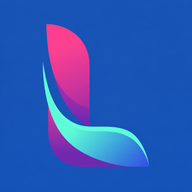
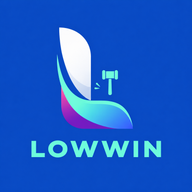
a

Changed region(s): [[0.1562, 0.125, 0.8438, 0.875]]

diff --git a/src/components/mini-route-skeleton.module.css b/src/components/mini-route-skeleton.module.css
@@ -29,15 +29,15 @@
 .homeControls>.bone:first-child{width:80px;height:44px;border-radius:24px}
 .homeAuctionGrid{display:grid;grid-template-columns:minmax(0,1fr);gap:16px}
 .homeAuctionGrid>.auctionCard:nth-child(n+2){display:none}
-.heroBlock{position:relative;min-width:0;overflow:hidden;border-radius:0;background:#172235}
-.hero{display:grid;align-content:center;gap:11px;width:100%;min-width:0;aspect-ratio:16/9;border-radius:0;padding:20px;background:#172235}
-.hero .bone{background:#344258}
+.heroBlock{position:relative;min-width:0;overflow:hidden;border-radius:0;background:#123e89}
+.hero{display:grid;align-content:center;gap:11px;width:100%;min-width:0;aspect-ratio:16/9;border-radius:0;padding:20px;background:#123e89}
+.hero .bone{background:#3262a5}
 .heroTitle{width:55%;height:clamp(32px,4vw,58px)}
 .heroCopy{width:46%;height:16px}
 .heroActions{position:absolute;left:16px;bottom:16px;display:flex;gap:8px;width:calc(100% - 32px);max-width:368px}
-.heroActions>.bone{flex:1;height:48px;border-radius:24px;background:#486286}
+.heroActions>.bone{flex:1;height:48px;border-radius:24px;background:#477cd0}
 .heroActions>.bone+span{background:var(--bone-light)}
-.heroCaption{position:absolute;right:12px;bottom:5px;width:25%;max-width:160px;height:5px;background:#8c99ad}
+.heroCaption{position:absolute;right:12px;bottom:5px;width:25%;max-width:160px;height:5px;background:#a8c5ee}
 @media(max-width:639px){.heroActions{left:8px;bottom:7px;width:calc(100% - 16px);max-width:240px;gap:6px}.heroActions>.bone{flex:0 1 42%;height:30px}.heroCaption{right:8px;bottom:3px;height:5px}}
 .gallery{width:100%;aspect-ratio:1840/800;border-radius:16px;background:#dfdcd2}
 .thumbnails{display:flex;gap:9px;overflow:hidden}
@@ -71,14 +71,14 @@
 .transactionHead{display:flex;align-items:center;justify-content:space-between;gap:18px}
 .transactionHead>.subtitle{width:62%}
 .refresh{width:38px;height:38px;border-radius:50%}
-.identity{display:flex;align-items:center;gap:14px;min-height:112px;padding:20px;border-radius:16px;background:#25241f}
-.identity .bone{background:#656257}
-.identity .avatar{width:64px;height:64px;border-radius:18px;background:#49473d}
-.balance{display:grid;gap:14px;min-height:178px;padding:22px 18px;border-radius:20px;background:#25241f}
-.balanceLabel{width:34%;height:14px;background:#656257}
-.balanceAmount{width:58%;height:34px;background:#827c6c}
+.identity{display:flex;align-items:center;gap:14px;min-height:112px;padding:20px;border-radius:16px;background:#123e89}
+.identity .bone{background:#4775b5}
+.identity .avatar{width:64px;height:64px;border-radius:18px;background:#28569a}
+.balance{display:grid;gap:14px;min-height:178px;padding:22px 18px;border-radius:20px;background:#123e89}
+.balanceLabel{width:34%;height:14px;background:#4775b5}
+.balanceAmount{width:58%;height:34px;background:#a8c5ee}
 .balance .facts{margin-top:7px}
-.balance .facts>.bone{height:38px;background:#49473d}
+.balance .facts>.bone{height:38px;background:#28569a}
 .panel{display:grid;gap:16px;padding:20px 16px;border-radius:16px;background:#fff}
 .supportRows{display:grid;gap:12px;margin-top:8px}
 .supportRows>.bone{height:64px;border-radius:14px;background:var(--bone-light)}
@@ -111,3 +111,5 @@
 @media(min-width:1280px){
  :global(.app-frame[data-app-layout=browser]) .homeAuctionGrid>.auctionCard:nth-child(3){display:block}
 }
+
+@media(min-width:1024px){:global(.app-frame[data-app-layout=browser]) .hero{aspect-ratio:1840/800}}

diff --git a/src/lib/brand.ts b/src/lib/brand.ts
@@ -1,18 +1,23 @@
 /** Current LowWin identity and approved campaign art; originals are preserved. */
-export const LOWWIN_LOGO_SRC='/images/lowwin-ribbon-l-blue-20261114.webp';
-export const LOWWIN_ICON_SRC='/images/lowwin-ribbon-l-icon-20261114.png';
+export const LOWWIN_LOGO_SRC='/images/lowwin-ribbon-l-blue-20261114-v2.webp';
+export const LOWWIN_ICON_SRC='/images/lowwin-ribbon-l-icon-20261114-v2.png';
 export const LOWWIN_BRAND_NAME='LowWin';
-export const LOWWIN_BANNER_SRC={en:'/images/lowwin-light-blue-banner-en-20261114.webp',am:'/images/lowwin-light-blue-banner-am-20261114.webp'} as const;
+export const LOWWIN_BANNER_SRC={en:'/images/lowwin-light-blue-banner-en-20261114-v3.webp',am:'/images/lowwin-light-blue-banner-am-20261114-v3.webp'} as const;
 /** The Home banner follows its own reference proportions. */
-export const LOWWIN_HOME_BANNER_SRC={en:'/images/lowwin-home-16x9-en-20261114.webp',am:'/images/lowwin-home-16x9-am-20261114.webp'} as const;
+export const LOWWIN_HOME_BANNER_SRC={en:'/images/lowwin-home-16x9-en-20261114-v3.webp',am:'/images/lowwin-home-16x9-am-20261114-v3.webp'} as const;
 
 // Built-in campaign artwork follows the selected locale. Published uploads,
 // consent-controlled winner media and product photographs keep their own URLs.
-const legacyBanners=new Set([...Object.values(LOWWIN_BANNER_SRC),'/images/lowwin-home-banner-en.webp','/images/lowwin-home-banner-am.webp','/images/lowin-family-hero.webp','/banner11.png','/images/lowwin-violet-hero-20261113.webp','/images/lowwin-blue-banner-en-20261113.webp','/images/lowwin-blue-banner-am-20261113.webp','/images/lowwin-blue-banner-en-20261113-v2.webp','/images/lowwin-blue-banner-am-20261113-v2.webp']);
+const legacyBanners=new Set(['/images/lowwin-home-16x9-en-20261114-v2.webp','/images/lowwin-home-16x9-am-20261114-v2.webp','/images/lowwin-light-blue-banner-en-20261114-v2.webp','/images/lowwin-light-blue-banner-am-20261114-v2.webp','/images/lowwin-home-16x9-en-20261114.webp','/images/lowwin-home-16x9-am-20261114.webp','/images/lowwin-light-blue-banner-en-20261114.webp','/images/lowwin-light-blue-banner-am-20261114.webp',...Object.values(LOWWIN_BANNER_SRC),'/images/lowwin-home-banner-en.webp','/images/lowwin-home-banner-am.webp','/images/lowin-family-hero.webp','/banner11.png','/images/lowwin-violet-hero-20261113.webp','/images/lowwin-blue-banner-en-20261113.webp','/images/lowwin-blue-banner-am-20261113.webp','/images/lowwin-blue-banner-en-20261113-v2.webp','/images/lowwin-blue-banner-am-20261113-v2.webp']);
 export function lowwinBanner(language:'en'|'am',configured?:string|null){
  return !configured||legacyBanners.has(configured.split(/[?#]/,1)[0])?LOWWIN_BANNER_SRC[language]:configured;
 }
 export function lowwinHomeBanner(language:'en'|'am',configured?:string|null){
  const path=configured?.split(/[?#]/,1)[0];
  return !path||legacyBanners.has(path)||Object.values(LOWWIN_HOME_BANNER_SRC).some(src=>src===path)?LOWWIN_HOME_BANNER_SRC[language]:configured!;
+}
+
+/** Art direction keeps the complete family/prizes visible in a shallower desktop hero. */
+export function lowwinDesktopHomeBanner(language:'en'|'am',configured?:string|null){
+ return lowwinHomeBanner(language,configured)===LOWWIN_HOME_BANNER_SRC[language]?LOWWIN_BANNER_SRC[language]:configured!;
 }

diff --git a/src/proxy.ts b/src/proxy.ts
@@ -6,6 +6,9 @@ import {resolveLearnMoreMedia} from '@/lib/learn-more-media';
 import {isPublicMiniPage,isPublicMiniRead} from '@/lib/mini-public-routes';
 import {LOWWIN_BANNER_SRC,LOWWIN_HOME_BANNER_SRC,LOWWIN_ICON_SRC,LOWWIN_LOGO_SRC} from '@/lib/brand';
 
+// Keep built-in marketing assets available to existing cached page bundles.
+const previousBrandAssets=new Set(['/images/lowwin-home-16x9-en-20261114-v2.webp','/images/lowwin-home-16x9-am-20261114-v2.webp','/images/lowwin-light-blue-banner-en-20261114-v2.webp','/images/lowwin-light-blue-banner-am-20261114-v2.webp','/images/lowwin-flat-mark-20261114.svg','/images/lowwin-flat-icon-20261114.png','/images/lowwin-hammer-mark-20261114.svg','/images/lowwin-hammer-icon-20261114.png','/images/lowwin-ribbon-l-blue-20261114.webp','/images/lowwin-ribbon-l-icon-20261114.png','/images/lowwin-home-16x9-en-20261114.webp','/images/lowwin-home-16x9-am-20261114.webp','/images/lowwin-light-blue-banner-en-20261114.webp','/images/lowwin-light-blue-banner-am-20261114.webp']);
+
 // These handlers enforce getMiniSession/requireUser themselves before any
 // private read or mutation. Do not run another full session lookup in Proxy.
 const guardedApis=new Set(['/api/me','/api/my-bids','/api/results','/api/results/winners','/api/favorites','/api/profile','/api/profile/wins','/api/alerts','/api/fulfillment','/api/support','/api/wallet','/api/wallet/top-ups','/api/wallet/scan','/api/wallet/preview','/api/payments/arifpay','/api/payments/arifpay/checkouts']);
@@ -26,7 +29,7 @@ export async function proxy(request:NextRequest) {
   if(path==='/api/payments/chapa/direct'||path==='/api/payments/chapa/inline'||path==='/api/payments/chapa/inline/config'||path==='/api/payments/chapa/methods'||path==='/api/payments/chapa/batches/quote'||/^\/api\/payments\/chapa\/batches\/[0-9a-f-]{36}\/wallet$/i.test(path)||/^\/api\/payments\/chapa\/checkouts\/[0-9a-f-]{36}\/authorize$/i.test(path))return NextResponse.next();
   // Public onboarding artwork must load before a Telegram session exists.
   // Keep this exact allowlist separate from all protected Mini App data.
-  if(publicAssets.has(path)||path===LOWWIN_LOGO_SRC||path===LOWWIN_ICON_SRC||[...Object.values(LOWWIN_BANNER_SRC),...Object.values(LOWWIN_HOME_BANNER_SRC)].some(banner=>banner===path))return NextResponse.next();
+  if(publicAssets.has(path)||previousBrandAssets.has(path)||path===LOWWIN_LOGO_SRC||path===LOWWIN_ICON_SRC||[...Object.values(LOWWIN_BANNER_SRC),...Object.values(LOWWIN_HOME_BANNER_SRC)].some(banner=>banner===path))return NextResponse.next();
   if((request.method==='GET'||request.method==='HEAD')&&['/images/how-it-works/choose-number.svg','/images/how-it-works/pay-entry.svg','/images/how-it-works/winning-result.svg'].includes(path))return NextResponse.next();
   if(path==='/images/lowwin-violet-hero-20261113.webp'||path==='/images/lowwin-blue-banner-en-20261113-v2.webp'||path==='/images/lowwin-blue-banner-am-20261113-v2.webp'||path==='/images/lowwin-blue-logo-20261113.webp'||path==='/images/lowwin-blue-icon-20261113.png')return NextResponse.next();
   if(path==='/fonts/inter-latin-variable.woff2')return NextResponse.next();

diff --git a/tests/brand-banner.test.ts b/tests/brand-banner.test.ts
@@ -1,10 +1,24 @@
 import {describe,expect,it} from 'vitest';
-import {LOWWIN_BANNER_SRC,LOWWIN_BRAND_NAME,lowwinBanner} from '../src/lib/brand';
+import {LOWWIN_BANNER_SRC,LOWWIN_HOME_BANNER_SRC,LOWWIN_BRAND_NAME,lowwinBanner,lowwinHomeBanner,lowwinDesktopHomeBanner} from '../src/lib/brand';
 import {resolveLearnMoreMedia} from '../src/lib/learn-more-media';
 
 describe('one current LowWin campaign banner',()=>{
  it('uses the blue product banner and consistent display name',()=>{expect(LOWWIN_BRAND_NAME).toBe('LowWin');for(const language of ['en','am'] as const)expect(lowwinBanner(language)).toBe(LOWWIN_BANNER_SRC[language])});
  it.each(['/images/lowwin-home-banner-en.webp','/images/lowwin-home-banner-am.webp','/images/lowin-family-hero.webp','/images/lowwin-violet-hero-20261113.webp','/images/lowwin-blue-banner-en-20261113.webp','/images/lowwin-blue-banner-en-20261113-v2.webp','/images/lowwin-blue-banner-am-20261113-v2.webp'])('replaces only the known old default %s',path=>{for(const language of ['en','am'] as const)expect(lowwinBanner(language,path+'?v=old')).toBe(LOWWIN_BANNER_SRC[language])});
  it('preserves published uploads and unrelated private/product paths exactly',()=>{for(const path of ['/api/media/11111111-1111-4111-a111-111111111111','/images/custom-campaign.webp','/images/lowwin-home-banner-en.webp/private','/images/private-winner.webp'])expect(lowwinBanner('am',path)).toBe(path)});
+ it('refreshes former built-in Home artwork to the approved identity while preserving custom uploads',()=>{
+  for(const language of ['en','am'] as const){
+   for(const old of ['/images/lowwin-home-16x9-en-20261114.webp','/images/lowwin-home-16x9-am-20261114.webp','/images/lowwin-light-blue-banner-en-20261114.webp'])expect(lowwinHomeBanner(language,old+'?v=old')).toBe(LOWWIN_HOME_BANNER_SRC[language]);
+   const custom='/api/media/11111111-1111-4111-a111-111111111111';expect(lowwinHomeBanner(language,custom)).toBe(custom);
+  }
+ });
+ it('uses the wide desktop composition only for built-in Home artwork',()=>{
+  for(const language of ['en','am'] as const){
+   expect(lowwinDesktopHomeBanner(language)).toBe(LOWWIN_BANNER_SRC[language]);
+   expect(lowwinDesktopHomeBanner(language,LOWWIN_HOME_BANNER_SRC[language])).toBe(LOWWIN_BANNER_SRC[language]);
+   expect(lowwinDesktopHomeBanner(language,'/images/lowwin-home-16x9-en-20261114-v2.webp')).toBe(LOWWIN_BANNER_SRC[language]);
+   for(const custom of ['/api/media/private-upload','/images/custom-campaign.webp'])expect(lowwinDesktopHomeBanner(language,custom)).toBe(custom);
+  }
+ });
  it('localizes built-in tutorial posters while keeping configured media intact',()=>{const old=resolveLearnMoreMedia({local:'/videos/guide.mp4',poster:'/images/lowin-family-hero.webp'});expect(old).toEqual({kind:'local',src:'/videos/guide.mp4',poster:LOWWIN_BANNER_SRC.am});expect(lowwinBanner('en',old!.poster)).toBe(LOWWIN_BANNER_SRC.en);expect(resolveLearnMoreMedia({local:'/videos/guide.mp4',poster:'/api/media/11111111-1111-4111-a111-111111111111'})).toMatchObject({poster:'/api/media/11111111-1111-4111-a111-111111111111'})});
 });

diff --git a/scripts/check-auth-runtime.ts b/scripts/check-auth-runtime.ts
@@ -1,0 +1,35 @@
+import nextEnv from '@next/env';
+import {PrismaClient} from '@prisma/client';
+import {runtimeDatabaseUrl} from '../src/lib/database-config';
+import {databaseErrorSummary} from '../src/lib/database-error';
+
+/** Operator-only, read-only. No customer rows, Telegram calls or session writes. */
+async function main(){
+ nextEnv.loadEnvConfig(process.cwd(),process.env.NODE_ENV!=='production',{info(){},error(){}});
+ const db=new PrismaClient({datasourceUrl:runtimeDatabaseUrl(process.env.DATABASE_URL),log:[]});
+ let stage='generated-client';
+ const deadline=setTimeout(()=>{console.error(JSON.stringify({ready:false,stage,code:'CHECK_TIMEOUT'}));process.exit(1)},25000);
+ try{
+  const {createAuth}=await import('../src/modules/auth/server');
+  const context=await createAuth(db).$context;
+  await context.checkSchema?.();
+  stage='runtime-auth-columns';
+  const permissions=await db.$transaction(async tx=>{
+   await tx.$executeRaw`SET TRANSACTION READ ONLY`;
+   // WHERE false verifies schema and SELECT access without returning accounts.
+   await tx.$queryRaw`SELECT u.id,u."telegramId",u."telegramPhoneNumber",a."providerId",a."accountId",a."telegramId",s.token,s."telegramAuthSource",s."telegramLaunchId",v.identifier,v.value,r.key,r.count,r."lastRequest",c."verificationSource",c."oidcIssuer",c."oidcSubject"
+    FROM public."user" u CROSS JOIN public.account a CROSS JOIN public.session s CROSS JOIN public.verification v CROSS JOIN public."rateLimit" r CROSS JOIN public."TelegramOwnContact" c WHERE false`;
+   stage='runtime-auth-grants';
+   return tx.$queryRaw<Array<{table:string;select:boolean;insert:boolean;update:boolean;delete:boolean}>>`
+    SELECT name AS "table",has_table_privilege(current_user,format('public.%I',name),'SELECT') AS "select",has_table_privilege(current_user,format('public.%I',name),'INSERT') AS "insert",has_table_privilege(current_user,format('public.%I',name),'UPDATE') AS "update",has_table_privilege(current_user,format('public.%I',name),'DELETE') AS "delete"
+    FROM (VALUES ('user'),('account'),('session'),('verification'),('rateLimit'),('TelegramOwnContact')) AS required(name)`;
+  },{maxWait:5000,timeout:15000});
+  const deletable=new Set(['session','verification','rateLimit']);
+  const missingPermissions=permissions.flatMap(row=>(['select','insert','update','delete'] as const).filter(action=>(action!=='delete'||deletable.has(row.table))&&!row[action]).map(action=>({table:row.table,action})));
+  console.log(JSON.stringify({ready:missingPermissions.length===0,generatedClient:'ok',runtimeAuthColumns:'ok',missingPermissions,telegramCredentialVerification:'not-performed'},null,2));
+  if(missingPermissions.length)process.exitCode=1;
+ }catch(error){
+  console.error(JSON.stringify({ready:false,stage,...databaseErrorSummary(error)}));process.exitCode=1;
+ }finally{clearTimeout(deadline);await db.$disconnect()}
+}
+void main().catch(()=>{console.error(JSON.stringify({ready:false,code:'CHECK_UNAVAILABLE'}));process.exitCode=1});

diff --git a/src/modules/auth/safe-logger.ts b/src/modules/auth/safe-logger.ts
@@ -2,14 +2,36 @@ import {databaseErrorSummary} from '@/lib/database-error';
 
 /** Better Auth may include tokens, SQL and PII in messages/arguments. Only
  * known diagnostic codes may leave this boundary. Never print those values. */
-export function authLogSummary(args:unknown[]){
+const providerCodes=new Set(['invalid_client','invalid_grant','invalid_request','unauthorized_client','unsupported_grant_type','temporarily_unavailable','server_error']);
+const operations:Record<string,string>={
+ 'Failed to validate authorization code':'TOKEN_EXCHANGE',
+ 'Unable to get user info':'TOKEN_VALIDATION',
+ 'Failed to create verification':'STATE_CREATE',
+ 'State not found':'STATE_LOOKUP',
+ 'Failed to parse state':'STATE_PARSE',
+ 'OAuth issuer mismatch':'TOKEN_ISSUER',
+ 'OAuth id_token nonce binding required but no expected nonce was found in state':'TOKEN_NONCE',
+ 'Could not validate the database schema. Check your database connection.':'DATABASE_SCHEMA',
+};
+export function authLogSummary(args:unknown[],message?:unknown){
  const pending=[...args];let selected:ReturnType<typeof databaseErrorSummary>|undefined;
+ let providerCode:string|undefined,diagnostic=typeof message==='string'?operations[message]:undefined;
  for(let visited=0;pending.length&&visited<12;visited++){
-  const value=pending.shift();if(!value||typeof value!=='object')continue;
+  const value=pending.shift();
+  // The plugin intentionally throws a fixed sentence for a 200/error token
+  // response. Extract only its allowlisted OAuth code, never the whole text.
+  const text=typeof value==='string'?value:value instanceof Error?value.message:undefined;
+  const tokenCode=text?.match(/^\[better-auth-telegram\] OIDC: token endpoint returned "([a-z_]+)"$/)?.[1];
+  if(tokenCode&&providerCodes.has(tokenCode))providerCode=tokenCode;
+  if(!value||typeof value!=='object')continue;
+  if('code' in value&&typeof value.code==='string'&&providerCodes.has(value.code))providerCode=value.code;
+  if('code' in value&&value.code==='SCHEMA_MISMATCH')diagnostic='GENERATED_CLIENT_SCHEMA';
   const summary=databaseErrorSummary(value);
   if(summary.code!=='UNKNOWN'||summary.sqlState||summary.reason){selected=summary;break}
   if('cause' in value)pending.push(value.cause);
   if('error' in value)pending.push(value.error);
  }
- return selected??{code:'AUTH_PROVIDER_OR_SESSION',hint:'Check Telegram sign-in diagnostics and WEB database readiness.'};
+ if(selected)return {...selected,...(diagnostic?{diagnostic}:{})};
+ if(providerCode)return {code:'AUTH_PROVIDER',diagnostic:diagnostic??'TOKEN_EXCHANGE',providerCode,hint:providerCode==='invalid_client'?'Check WEB Login Widget client credentials and exact BotFather callback; bot tokens are separate credentials.':'Restart sign-in; inspect the provider configuration if the rejection repeats.'};
+ return {code:'AUTH_PROVIDER_OR_SESSION',...(diagnostic?{diagnostic}:{}),hint:'Run the read-only auth runtime check in WEB; inspect its generated-client, tables and runtime grants.'};
 }

diff --git a/tests/telegram-oidc-token-request.test.ts b/tests/telegram-oidc-token-request.test.ts
@@ -1,0 +1,41 @@
+import {afterEach,describe,expect,it,vi} from 'vitest';
+import {authorizationCodeRequest} from '@better-auth/core/oauth2';
+import {telegramOIDCTokenRequest} from '../src/modules/auth/telegram-oidc-token-request';
+
+const settings={clientId:'123456789',clientSecret:'synthetic-secret-only',origin:'https://lowwin.invalid',callback:'https://lowwin.invalid/api/auth/callback/telegram-oidc'};
+const args={code:'synthetic-code',codeVerifier:'synthetic-verifier',redirectURI:settings.callback};
+afterEach(()=>vi.unstubAllGlobals());
+describe('Telegram documented token request compatibility',()=>{
+ it('reproduces the installed core omission under Basic authentication',async()=>{
+  const request=await authorizationCodeRequest({...args,options:settings,authentication:'basic'});
+  expect(request.body.has('client_id')).toBe(false);
+  expect(request.headers.authorization).toMatch(/^Basic /);
+ });
+ it('adds the documented public client ID, retaining Basic auth, PKCE and callback',async()=>{
+  const fetch=vi.fn(async(_url,init)=>{
+   const body=new URLSearchParams(init.body);
+   expect(body.get('client_id')).toBe(settings.clientId);
+   expect(body.get('code_verifier')).toBe(args.codeVerifier);
+   expect(body.get('redirect_uri')).toBe(settings.callback);
+   expect(body.has('client_secret')).toBe(false);
+   expect(new Headers(init.headers).get('authorization')).toBe('Basic '+Buffer.from(settings.clientId+':'+settings.clientSecret).toString('base64'));
+   return Response.json({access_token:'synthetic-access',id_token:'synthetic-token',token_type:'Bearer'});
+  });
+  vi.stubGlobal('fetch',fetch);
+  const verify=vi.fn(),getUserInfo=vi.fn(),other={id:'other-provider'};
+  const result=await telegramOIDCTokenRequest(settings).init!({socialProviders:[{id:'telegram-oidc',idToken:{verify},getUserInfo},other]} as never);
+  const providers=result!.context!.socialProviders!;
+  expect(providers[1]).toBe(other);
+  expect(providers[0]!.idToken).toEqual({verify});expect(providers[0]!.getUserInfo).toBe(getUserInfo);
+  expect(await providers[0]!.validateAuthorizationCode!(args)).toMatchObject({idToken:'synthetic-token'});
+  expect(fetch).toHaveBeenCalledOnce();
+ });
+ it('does not treat HTTP 200 OAuth rejection as authentication success',async()=>{
+  vi.stubGlobal('fetch',vi.fn(async()=>Response.json({error:'invalid_client'})));
+  const result=await telegramOIDCTokenRequest(settings).init!({socialProviders:[{id:'telegram-oidc'}]} as never);
+  await expect(result!.context!.socialProviders![0]!.validateAuthorizationCode!(args)).rejects.toThrow('invalid_client');
+ });
+ it('does not change Mini App or disabled browser login configuration',()=>{
+  expect(telegramOIDCTokenRequest(null).init!({} as never)).toBeUndefined();
+ });
+});

diff --git a/src/components/home-hero.tsx b/src/components/home-hero.tsx
@@ -1,5 +1,5 @@
 'use client';
-import Image from 'next/image';
+import {getImageProps} from 'next/image';
 import dynamic from 'next/dynamic';
 import {useRef,useState} from 'react';
 import {ArrowRight,Trophy} from 'lucide-react';
@@ -8,7 +8,7 @@ import styles from './home-banner.module.css';
 import type {LearnMoreMedia} from '@/lib/learn-more-media';
 import type {HomeExperience} from '@/modules/admin/content-schema';
 import {FirstVisitIntroduction} from './first-visit-introduction';
-import {lowwinHomeBanner} from '@/lib/brand';
+import {lowwinHomeBanner,lowwinDesktopHomeBanner} from '@/lib/brand';
 // Keep the current page visible while the sheet's code loads.
 const LearnMoreSheet=dynamic(()=>import('./learn-more-sheet'),{loading:()=>null});
 type Copy={headline:string;headlineAm:string;lead:string;leadAm:string};
@@ -19,10 +19,13 @@ export function HomeHero({copy,videoId,media,experience}:{copy:Copy;videoId?:str
  const headline=language==='am'?copy.headlineAm:copy.headline;
  const lead=language==='am'?copy.leadAm:copy.lead;
  const configuredBanner=language==='am'?experience?.bannerAm:experience?.bannerEn;
+ const imageCommon={alt:language==='am'?'የLowWin ማስተዋወቂያ ምስል፤ ለማሳያ የተዘጋጀ':'LowWin promotional image; illustrative scene',quality:75,loading:'eager' as const,fetchPriority:'high' as const};
+ const {props:mobile}=getImageProps({...imageCommon,src:lowwinHomeBanner(language,configuredBanner),width:1600,height:900,sizes:'(max-width:639px) 100vw, 900px'});
+ const {props:desktop}=getImageProps({...imageCommon,src:lowwinDesktopHomeBanner(language,configuredBanner),width:1840,height:800,sizes:'(min-width:1280px) 1232px, calc(100vw - 48px)'});
  return <>
   <section className={`${styles.banner} ${styles.artworkBanner}`} aria-labelledby="home-headline" lang={language} data-home-hero>
    <div className={styles.bannerArtwork}>
-    <Image src={lowwinHomeBanner(language,configuredBanner)} alt={language==='am'?'የLowWin ማስተዋወቂያ ምስል፤ ለማሳያ የተዘጋጀ':'LowWin promotional image; illustrative scene'} width={1600} height={900} sizes="(min-width:1280px) 1232px, (min-width:1024px) calc(100vw - 48px), (min-width:640px) 900px, (max-width:480px) 100vw, 480px" quality={75} preload/>
+    <picture><source media="(min-width:1024px)" srcSet={desktop.srcSet??desktop.src} sizes={desktop.sizes} width={1840} height={800}/><img {...mobile}/></picture>
    </div>
    <div className={styles.accessibleCopy}><h1 id="home-headline">{headline}</h1><p>{lead}</p></div>
    <div className={styles.introActions}>

diff --git a/src/components/mini-header.tsx b/src/components/mini-header.tsx
@@ -13,7 +13,8 @@ import {centsToEtb,etbToCents} from '@/lib/money';
 import type {WalletBalance} from '@/modules/wallet/balance';
 import {useMiniLocale,type MiniLanguage} from './mini-locale';
 import styles from './mini-header.module.css';
-import {LOWWIN_LOGO_SRC} from '@/lib/brand';
+import {LOWWIN_BRAND_NAME} from '@/lib/brand';
+import {BrandMark} from './brand-mark';
 
 export function MiniHeader(){
  const {language,setLanguage,t}=useMiniLocale();
@@ -48,7 +49,7 @@ export function MiniHeader(){
  };
  if(path!=='/')return null;
  return <header className={styles.header} role="banner" aria-label="Mini App header">
-  <Link href="/" className={styles.brand} aria-label={am?'LowWin መነሻ':'LowWin Home'}><img src={LOWWIN_LOGO_SRC} width={44} height={44} alt="" data-lowwin-logo/></Link>
+  <Link href="/" className={styles.brand} aria-label={am?'LowWin መነሻ':'LowWin Home'}><BrandMark/><span className={styles.brandName}>{LOWWIN_BRAND_NAME}</span></Link>
   {registered?<div className={styles.balancePill} data-long-balance={amount!==null&&amount.length>6||undefined}>
    <WalletOverviewTrigger ariaBusy={amount===null||undefined} className={styles.balance} ariaLabel={`${am?'ዋሌት':'Wallet'}${amount!==null?`, ${amount} ETB`:''}`} title={amount!==null?`${amount} ETB`:am?'ቀሪ ሂሳቡን ለማየት ዋሌትን ይክፈቱ':'Open Wallet to check your balance'}><Wallet size={14} strokeWidth={1.75} aria-hidden="true"/><span data-header-balance aria-busy={amount===null||undefined}><span className={styles.balanceAmount}>{amount??<span className={styles.balancePlaceholder} aria-label={am?'ሂሳብ በመጫን ላይ':'Loading balance'}/>}</span><small>ETB</small></span></WalletOverviewTrigger>
    <WalletTopUpTrigger className={styles.addFunds} ariaLabel={am?'ገንዘብ ያስገቡ':'Deposit'}><Plus size={15} strokeWidth={1.75} aria-hidden="true"/></WalletTopUpTrigger>

diff --git a/src/modules/auth/server.ts b/src/modules/auth/server.ts
@@ -13,6 +13,7 @@ import {emailAdapter} from '../admin/email';
 import {telegramLoginSettings} from './telegram-login';
 import {prepareTelegramOIDCIdentity} from './telegram-oidc-identity';
 import {authLogSummary} from './safe-logger';
+import {telegramOIDCTokenRequest} from './telegram-oidc-token-request';
 
 const oidcProof=defineRequestState<{telegramId:string;subject:string}|null>(()=>null);
 
@@ -23,7 +24,7 @@ export function createAuth(client: PrismaClient | Prisma.TransactionClient = db)
     appName: 'Lowwin', baseURL: env.BETTER_AUTH_URL, secret: env.BETTER_AUTH_SECRET,
     database: prismaAdapter(client, { provider: 'postgresql' }),
     trustedOrigins: [new URL(env.BETTER_AUTH_URL).origin],
-    logger:{level:'error',log:(level,_message,...args)=>{console.warn('authentication_operation_unavailable',{level,...authLogSummary(args)})}},
+    logger:{level:'error',log:(level,message,...args)=>{console.warn('authentication_operation_unavailable',{level,...authLogSummary(args,message)})}},
     user:{additionalFields:{role:{type:'string',defaultValue:'member',input:false,required:false}}},
     emailAndPassword: {
       enabled:true,disableSignUp:false,autoSignIn:false,requireEmailVerification:true,
@@ -71,7 +72,7 @@ export function createAuth(client: PrismaClient | Prisma.TransactionClient = db)
           return profile;
         },
       }:undefined,
-    }), {
+    }), telegramOIDCTokenRequest(login), {
       id: 'lowin-local-development', endpoints: {
         localIdentity: createAuthEndpoint('/lowin/dev-identity', { method: 'POST' }, async ctx => {
           // Repeat the full gate for direct internal Better Auth API invocation.

diff --git a/src/components/tutorial.module.css b/src/components/tutorial.module.css
@@ -1,7 +1,7 @@
 .page{width:100%;max-width:900px;margin:0 auto;padding:14px 16px 28px;color:var(--brand-ink,#16202c)}
-.content{min-width:0}
-.video,.emptyVideo{position:relative;isolation:isolate;width:100%;aspect-ratio:16/9;overflow:hidden;border-radius:16px;background:#eef5ff}
-.video>img{object-fit:cover}.video iframe,.video video{display:block;width:100%;height:100%;border:0;position:absolute;inset:0}
+.content{display:flex;justify-content:center;min-width:0}
+.video,.emptyVideo{--video-height:min(640px,calc(var(--sheet-viewport-height,100dvh) - 160px));position:relative;isolation:isolate;width:min(100%,calc(var(--video-height) * .5625));aspect-ratio:9/16;overflow:hidden;border-radius:16px;background:#eef5ff}
+.video>img{object-fit:contain}.video iframe,.video video{display:block;width:100%;height:100%;border:0;position:absolute;inset:0;object-fit:contain}
 .play{position:absolute;inset:0;display:grid;place-items:center;padding:16px;border:0;background:#142b4d18;color:#fff;cursor:pointer;touch-action:manipulation}
 .play>span{display:grid;place-items:center;width:60px;height:60px;border-radius:50%;background:var(--action-primary,#2563eb);color:#fff;transition:background-color 150ms ease,transform 150ms ease}.play>span>svg{margin-left:3px}.play:active>span{transform:scale(.96)}.play:focus-visible{outline:3px solid var(--action-primary,#2563eb);outline-offset:-5px}
 .emptyVideo{display:grid;place-items:center;border:1px solid #dce8f8;color:#7a99c6}.emptyVideo>svg{width:48px;height:48px;padding:10px;border-radius:50%;background:#dceaff}

diff --git a/tests/auth-safe-logger.test.ts b/tests/auth-safe-logger.test.ts
@@ -14,4 +14,16 @@ describe('safe Better Auth diagnostics',()=>{
   const result=authLogSummary(['Bearer private-token',{code:'private-value',message:'user@example.com',stack:'sensitive stack'}]);
   expect(result).toMatchObject({code:'AUTH_PROVIDER_OR_SESSION'});expect(JSON.stringify(result)).not.toMatch(/private-token|private-value|user@example|sensitive stack/);
  });
+ it('keeps the fixed auth stage when upstream supplies no exception argument',()=>{
+  expect(authLogSummary([],'Unable to get user info')).toMatchObject({diagnostic:'TOKEN_VALIDATION'});
+  expect(authLogSummary([],'Failed to create verification')).toMatchObject({diagnostic:'STATE_CREATE'});
+  expect(JSON.stringify(authLogSummary([],'Invalid origin: https://private.example/?token=secret'))).not.toContain('private.example');
+ });
+ it('extracts allowlisted token rejection codes without provider payloads',()=>{
+  expect(authLogSummary([new Error('[better-auth-telegram] OIDC: token endpoint returned "invalid_client"')],'Failed to validate authorization code')).toMatchObject({code:'AUTH_PROVIDER',diagnostic:'TOKEN_EXCHANGE',providerCode:'invalid_client'});
+  expect(JSON.stringify(authLogSummary([new Error('[better-auth-telegram] OIDC: token endpoint returned "private-token"')]))).not.toContain('private-token');
+ });
+ it('retains database evidence ahead of a generic provider failure',()=>{
+  expect(authLogSummary([{cause:{code:'P2022'}}],'Failed to create verification')).toMatchObject({code:'P2022',diagnostic:'STATE_CREATE'});
+ });
 });
